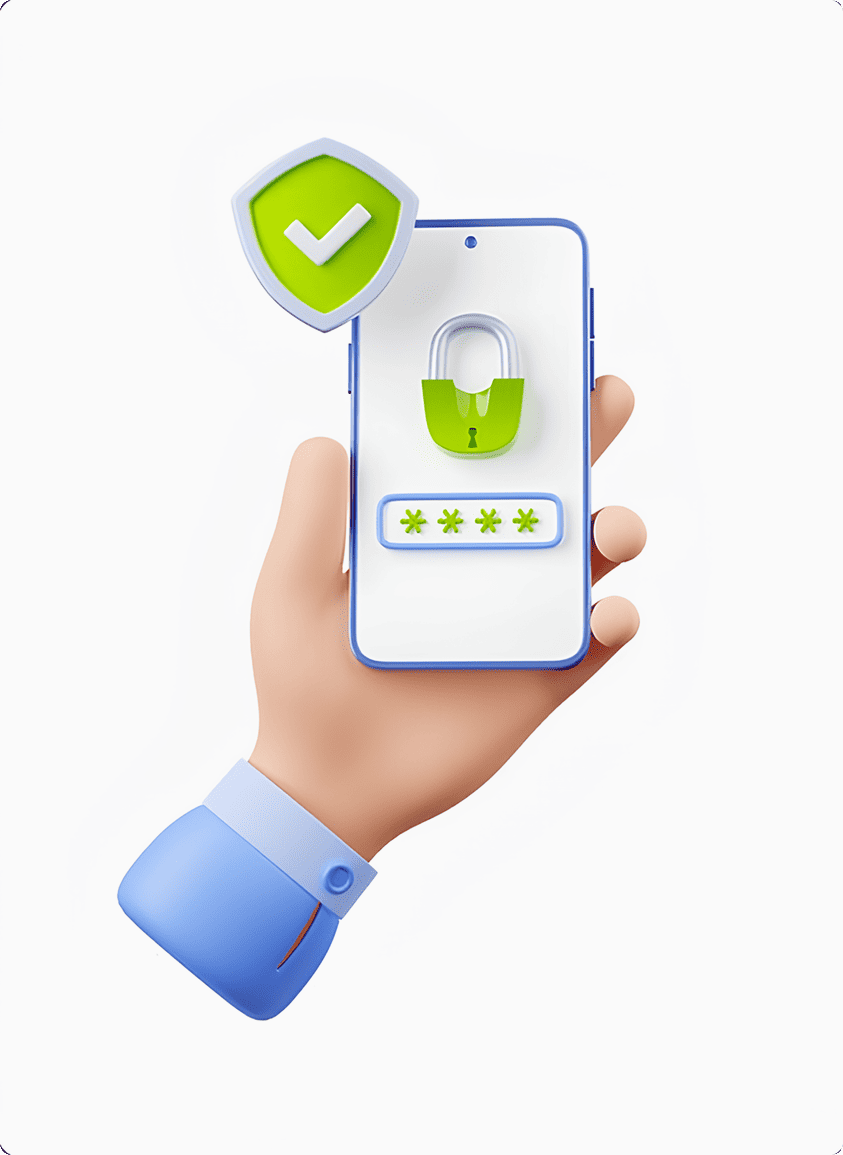
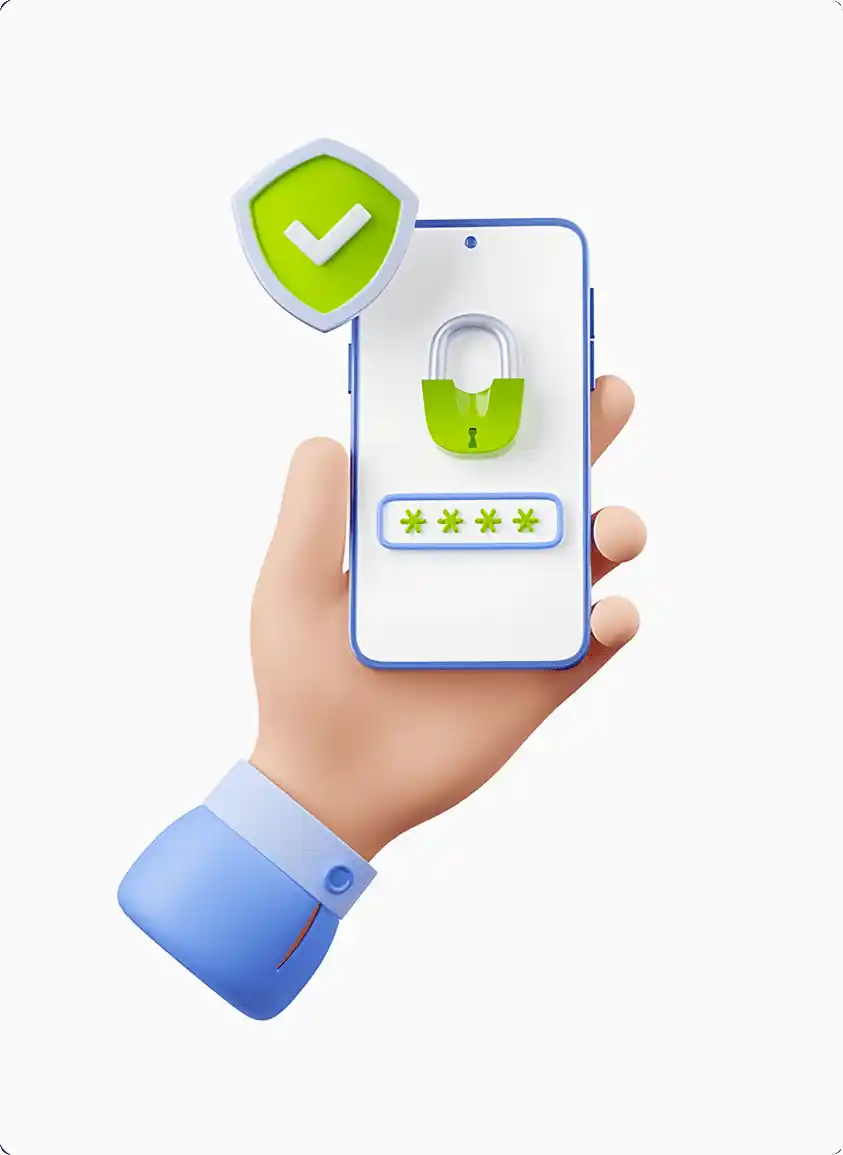
perf: add optimization

diff --git a/frontend/src/pages/Home/ui/HomePage.tsx b/frontend/src/pages/Home/ui/HomePage.tsx
@@ -2,19 +2,22 @@ import { useAuth } from "@entities/User/model/useAuth";
 import { useUploadProductImage } from "@features/ProductForm/api/useImageUpload";
 import { useBreakpoint } from "@shared/lib/hooks/useBreakpoint";
 import { Button } from "@shared/ui/Button/Button";
-
 import { ProductForm } from "@features/ProductForm/ui/ProductForm";
 import { Modal } from "@shared/ui/Modal/Modal";
 import { PopularityCategory } from "@widgets/PopularityCategory/ui/PopularityCategory";
-import { ProductItems } from "@widgets/ProductItems/ui/ProductItems";
 import { PlusIcon } from "lucide-react";
-import { Suspense, useMemo } from "react";
+import { lazy, Suspense, useMemo } from "react";
 import { useHomeActions } from "../model/useHomeActions";
 import styles from "./HomePage.module.scss";
+
+const ProductItems = lazy(
+  () => import("@widgets/ProductItems/ui/ProductItems"),
+);
 
 const HomePage = () => {
   const { role } = useAuth();
   const { isLaptop, isMobile, isTablet } = useBreakpoint();
+
   const { isOpen, mode, handleCloseModal, openCreate, openEdit, productForm } =
     useHomeActions();
 
@@ -28,8 +31,10 @@ const HomePage = () => {
   }, [isMobile, isTablet, isLaptop]);
 
   return (
-    <Suspense fallback={null}>
+    <>
+
       {role !== "admin" && <PopularityCategory />}
+
       {role === "admin" && (
         <div className={styles.wrapperBtn}>
           <Button
@@ -44,7 +49,11 @@ const HomePage = () => {
         </div>
       )}
 
-      <ProductItems onEdit={openEdit} />
+
+      <Suspense fallback={<div>Загрузка товаров...</div>}>
+        <ProductItems onEdit={openEdit} />
+      </Suspense>
+
 
       {isOpen && (
         <Modal
@@ -70,7 +79,7 @@ const HomePage = () => {
           />
         </Modal>
       )}
-    </Suspense>
+    </>
   );
 };
 

diff --git a/frontend/index.html b/frontend/index.html
@@ -5,18 +5,23 @@
     <title>Оптовая продажа автохимии и оборудования | ОптАвтоХим</title>
     <meta
       name="description"
-      content="Официальный поставщик автохимии, масел и оборудования для СТО, автомоек и магазинов. 
-      Доставка по РФ."
+      content="Официальный поставщик автохимии, масел и оборудования для СТО, автомоек и магазинов. Доставка по РФ."
     />
-    <link rel="icon" type="image/svg+xml" href="./public/logo.png" />
+    <link rel="icon" type="image/svg+xml" href="/logo.png" />
+
     <link rel="preconnect" href="https://fonts.googleapis.com" />
     <link rel="preconnect" href="https://fonts.gstatic.com" crossorigin />
+
     <link
       href="https://fonts.googleapis.com/css2?family=Montserrat:ital,wght@0,100..900;1,100..900&display=swap"
       rel="stylesheet"
+      media="print"
+      onload="this.media = 'all'"
     />
+
+    <link rel="preload" as="style" href="/assets/index-DfAaeJUF.css" />
+
     <meta name="viewport" content="width=device-width, initial-scale=1.0" />
-    <title>ОптовикАвтоХим</title>
   </head>
   <body>
     <noscript>

diff --git a/frontend/src/shared/ui/LayoutAuthRegister/LayoutAuthRegister.tsx b/frontend/src/shared/ui/LayoutAuthRegister/LayoutAuthRegister.tsx
@@ -1,5 +1,6 @@
 import { useAppSelector } from "@app/store/hooks";
 import { AuthForm } from "@features/AuthForm/ui/AuthForm";
+import { updateField } from "@features/ConfirmCodeForm/model/registrationSlice";
 import { ConfirmCodeForm } from "@features/ConfirmCodeForm/ui/ConfirmCodeForm";
 import { RegisterForm } from "@features/RegisterForm/ui/RegisterForm";
 import authRegister from "@shared/assets/images/auth-register.webp";
@@ -8,7 +9,6 @@ import { useDispatch } from "react-redux";
 import { useNavigate } from "react-router-dom";
 import { RegisterSwitcher } from "../RegisterSwitcher/RegisterSwitcher";
 import styles from "./LayoutAuthRegister.module.scss";
-import { updateField } from "@features/ConfirmCodeForm/model/registrationSlice";
 
 interface LayoutAuthRegister {
   type: string;
@@ -103,6 +103,7 @@ export const LayoutAuthRegister = (props: LayoutAuthRegister) => {
           )}
         </div>
         <img
+          loading="lazy"
           className={styles.contentRight}
           src={authRegister}
           alt="Декоративное изображение для страницы авторизации"

diff --git a/frontend/src/widgets/Footer/ui/Footer.tsx b/frontend/src/widgets/Footer/ui/Footer.tsx
@@ -1,4 +1,4 @@
-import imgLogo from "@shared/assets/images/logo-text.png";
+import imgLogo from "@shared/assets/images/logo-text.webp";
 import { Link } from "react-router-dom";
 import styles from "./Footer.module.scss";
 
@@ -13,7 +13,7 @@ export const Footer = () => {
       <div className={styles.container}>
         <div className={styles.img}>
           <Link to={"/home"}>
-            <img src={imgLogo} alt="Логотип компании" />
+            <img loading="lazy" src={imgLogo} alt="Логотип компании" />
           </Link>
         </div>
         <nav className={styles.nav}>
@@ -31,9 +31,7 @@ export const Footer = () => {
           <div className={styles.dopSubtile}>ПН-ПТ с 8:30 до 22:00 (МСК)</div>
           <div className={styles.dopTitle}>Общие вопросы</div>
           <div className={styles.dopSubtile}>
-            <a href="mailto:optovikautohim@mail.ru">
-              optovikautohim@mail.ru
-            </a>
+            <a href="mailto:optovikautohim@mail.ru">optovikautohim@mail.ru</a>
           </div>
         </div>
       </div>

diff --git a/frontend/src/widgets/Header/ui/Header.tsx b/frontend/src/widgets/Header/ui/Header.tsx
@@ -1,5 +1,5 @@
 import { useAuth } from "@entities/User/model/useAuth";
-import imgLogo from "@shared/assets/images/logo-text.png";
+import imgLogo from "@shared/assets/images/logo-text.webp";
 import { Link } from "react-router-dom";
 import { useActiveHeader } from "../model/useActiveHeader";
 import styles from "./Header.module.scss";
@@ -13,10 +13,11 @@ export const Header = () => {
         <div className={styles.img}>
           <Link to={"/home"}>
             <img
-              width={160}
-              height={160}
+              width={120}
+              height={120}
               src={imgLogo}
               alt="Логотип компании"
+              fetchPriority="high"
             />
           </Link>
         </div>

diff --git a/frontend/src/pages/ProductsInOrder/ui/ProductsInOrderPage.tsx b/frontend/src/pages/ProductsInOrder/ui/ProductsInOrderPage.tsx
@@ -51,7 +51,7 @@ const ProductsInOrderPage = () => {
             data?.products.map((item: ProductInOrder) => (
               <div className={styles.item} key={item.product_id}>
                 <div className={styles.product}>
-                  <img src={item.image_url} alt={item.name} />
+                  <img loading="lazy" src={item.image_url} alt={item.name} />
                   <div className={styles.productInfo}>
                     <h4 className={styles.productName}>{item.name}</h4>
                     <h5 className={styles.productActicle}>

diff --git a/frontend/src/pages/CatalogProduct/ui/CatalogProductPage.tsx b/frontend/src/pages/CatalogProduct/ui/CatalogProductPage.tsx
@@ -2,7 +2,7 @@ import { useProductModal } from "@app/providers/ProductModalContext";
 import { useUploadProductImage } from "@features/ProductForm/api/useImageUpload";
 import { ProductForm } from "@features/ProductForm/ui/ProductForm";
 import { Modal } from "@shared/ui/Modal/Modal";
-import { ProductItems } from "@widgets/ProductItems/ui/ProductItems";
+import ProductItems from "@widgets/ProductItems/ui/ProductItems";
 
 const CatalogProductPage = () => {
   const { mode, openEdit, isOpen, productForm, handleCloseModal } =

diff --git a/frontend/src/pages/CurrentProduct/ui/CurrentProductPage.tsx b/frontend/src/pages/CurrentProduct/ui/CurrentProductPage.tsx
@@ -49,7 +49,7 @@ const CurrentProductPage = () => {
         <Breadcrumbs items={breadcrumbs} />
         <section className={styles.product}>
           <div className={styles.imgWrapper}>
-            <img src={productInfo?.image_url} alt="Фото товара" />
+            <img loading="lazy" src={productInfo?.image_url} alt="Фото товара" />
           </div>
           <div className={styles.info}>
             <h3 className={styles.infoTitle}>{productInfo?.name}</h3>

diff --git a/frontend/src/entities/Product/ui/ProductItem/ProductItem.tsx b/frontend/src/entities/Product/ui/ProductItem/ProductItem.tsx
@@ -45,8 +45,10 @@ export const ProductItem = ({ product, onEdit }: ProductItemProps) => {
             <img
               className={styles.img}
               src={product.image_url}
-              loading="lazy"
+              fetchPriority="high"
               alt="Фото товара"
+              width={300}
+              height={300}
             />
             {hasDiscount && (
               <div className={styles.discountBadge}>-{discountPercent}%</div>

diff --git a/frontend/src/entities/Product/ui/ProductItem/ProductItem.module.scss b/frontend/src/entities/Product/ui/ProductItem/ProductItem.module.scss
@@ -192,17 +192,11 @@
   will-change: transform, opacity;
   flex: 1;
   opacity: 0;
-  transform: translateX(-18px);
-  animation: cardIn 520ms cubic-bezier(0.16, 1, 0.3, 1) forwards;
+  animation: fadeIn 300ms ease forwards;
 }
 
-@keyframes cardIn {
-  from {
-    opacity: 0;
-    transform: translateX(-100px);
-  }
+@keyframes fadeIn {
   to {
     opacity: 1;
-    transform: translateX(0);
   }
 }

diff --git a/frontend/src/app/providers/router.tsx b/frontend/src/app/providers/router.tsx
@@ -30,7 +30,7 @@ const AccessDeniedPage = lazy(() => import("@pages/Fallback/AccessDeniedPage/Acc
 const NotFoundPage = lazy(() => import("@pages/Fallback/NotFoundPage/NotFoundPage"));
 
 const SuspenseWrapper = (Component: React.LazyExoticComponent<React.ComponentType>) => (
-  <Suspense fallback={<div>Loading...</div>}>
+  <Suspense>
     <Component />
   </Suspense>
 );

diff --git a/frontend/src/app/providers/AdminRoute.tsx b/frontend/src/app/providers/AdminRoute.tsx
@@ -1,7 +1,6 @@
-
+import { useAuth } from "@entities/User/model/useAuth";
 import { Navigate, Outlet } from "react-router-dom";
 import { PATHS } from "./paths";
-import { useAuth } from "@entities/User/model/useAuth";
 
 export const AdminRoute = () => {
   const { isAuthenticated, loading, user } = useAuth();
